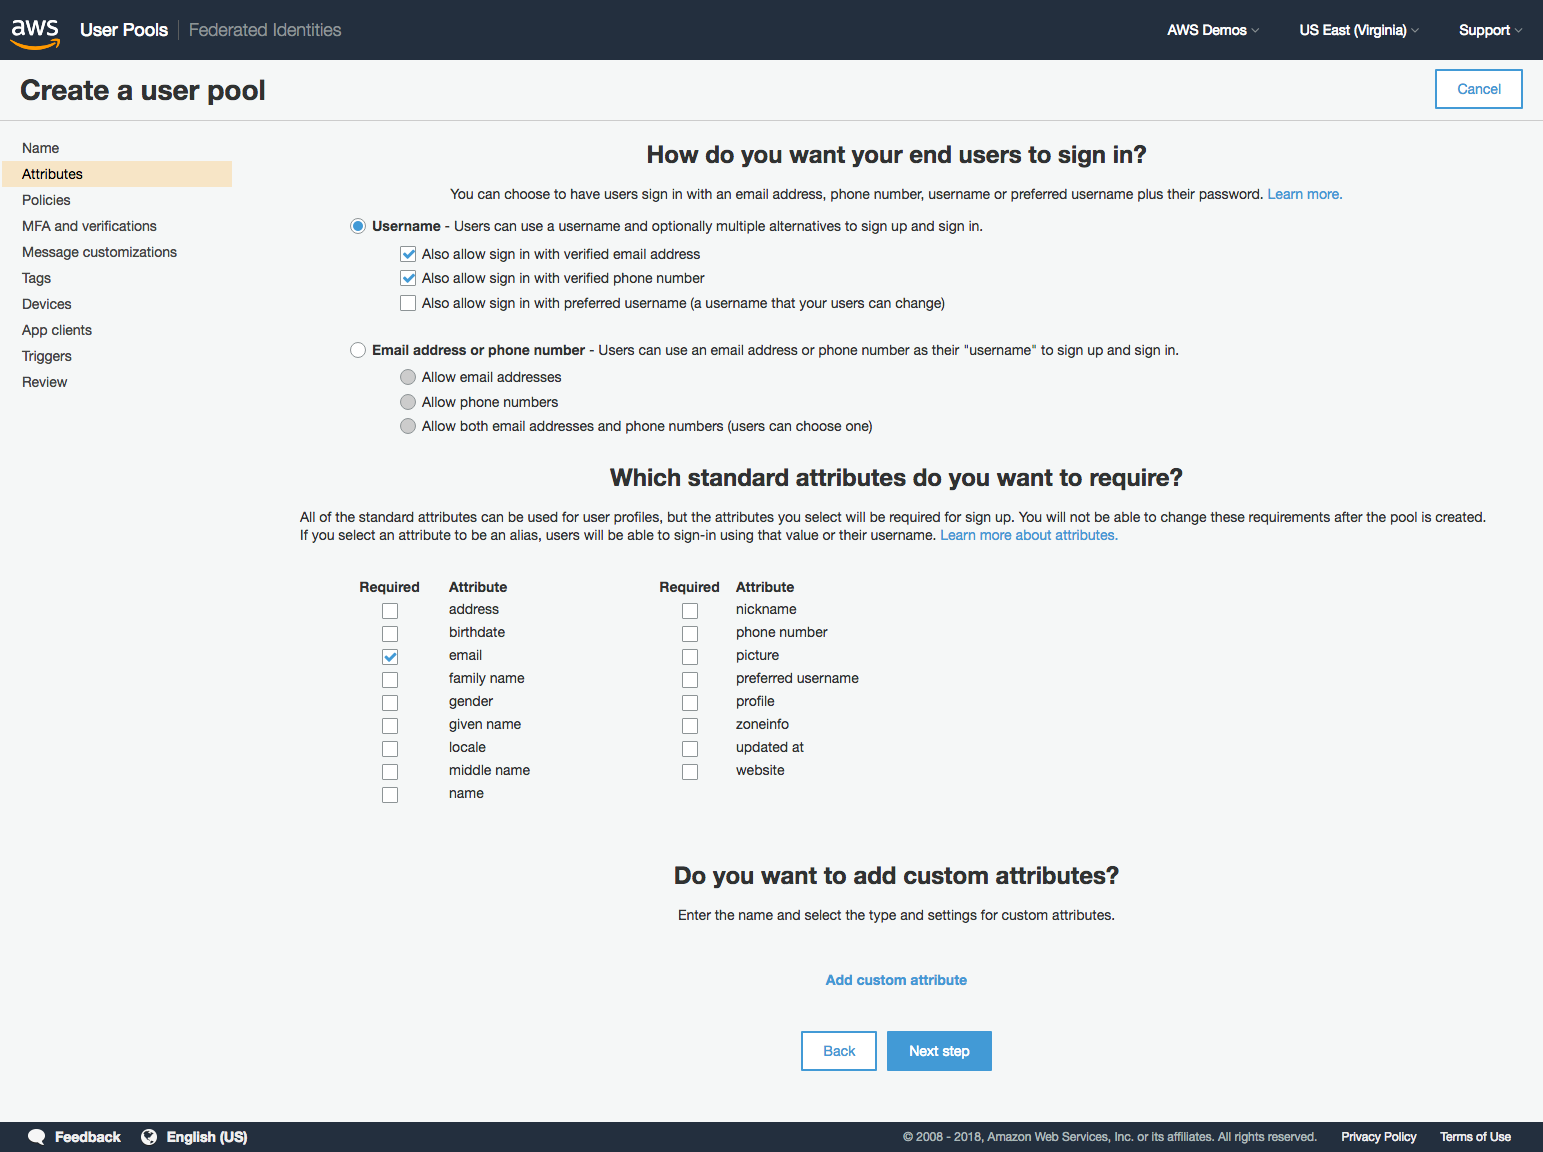
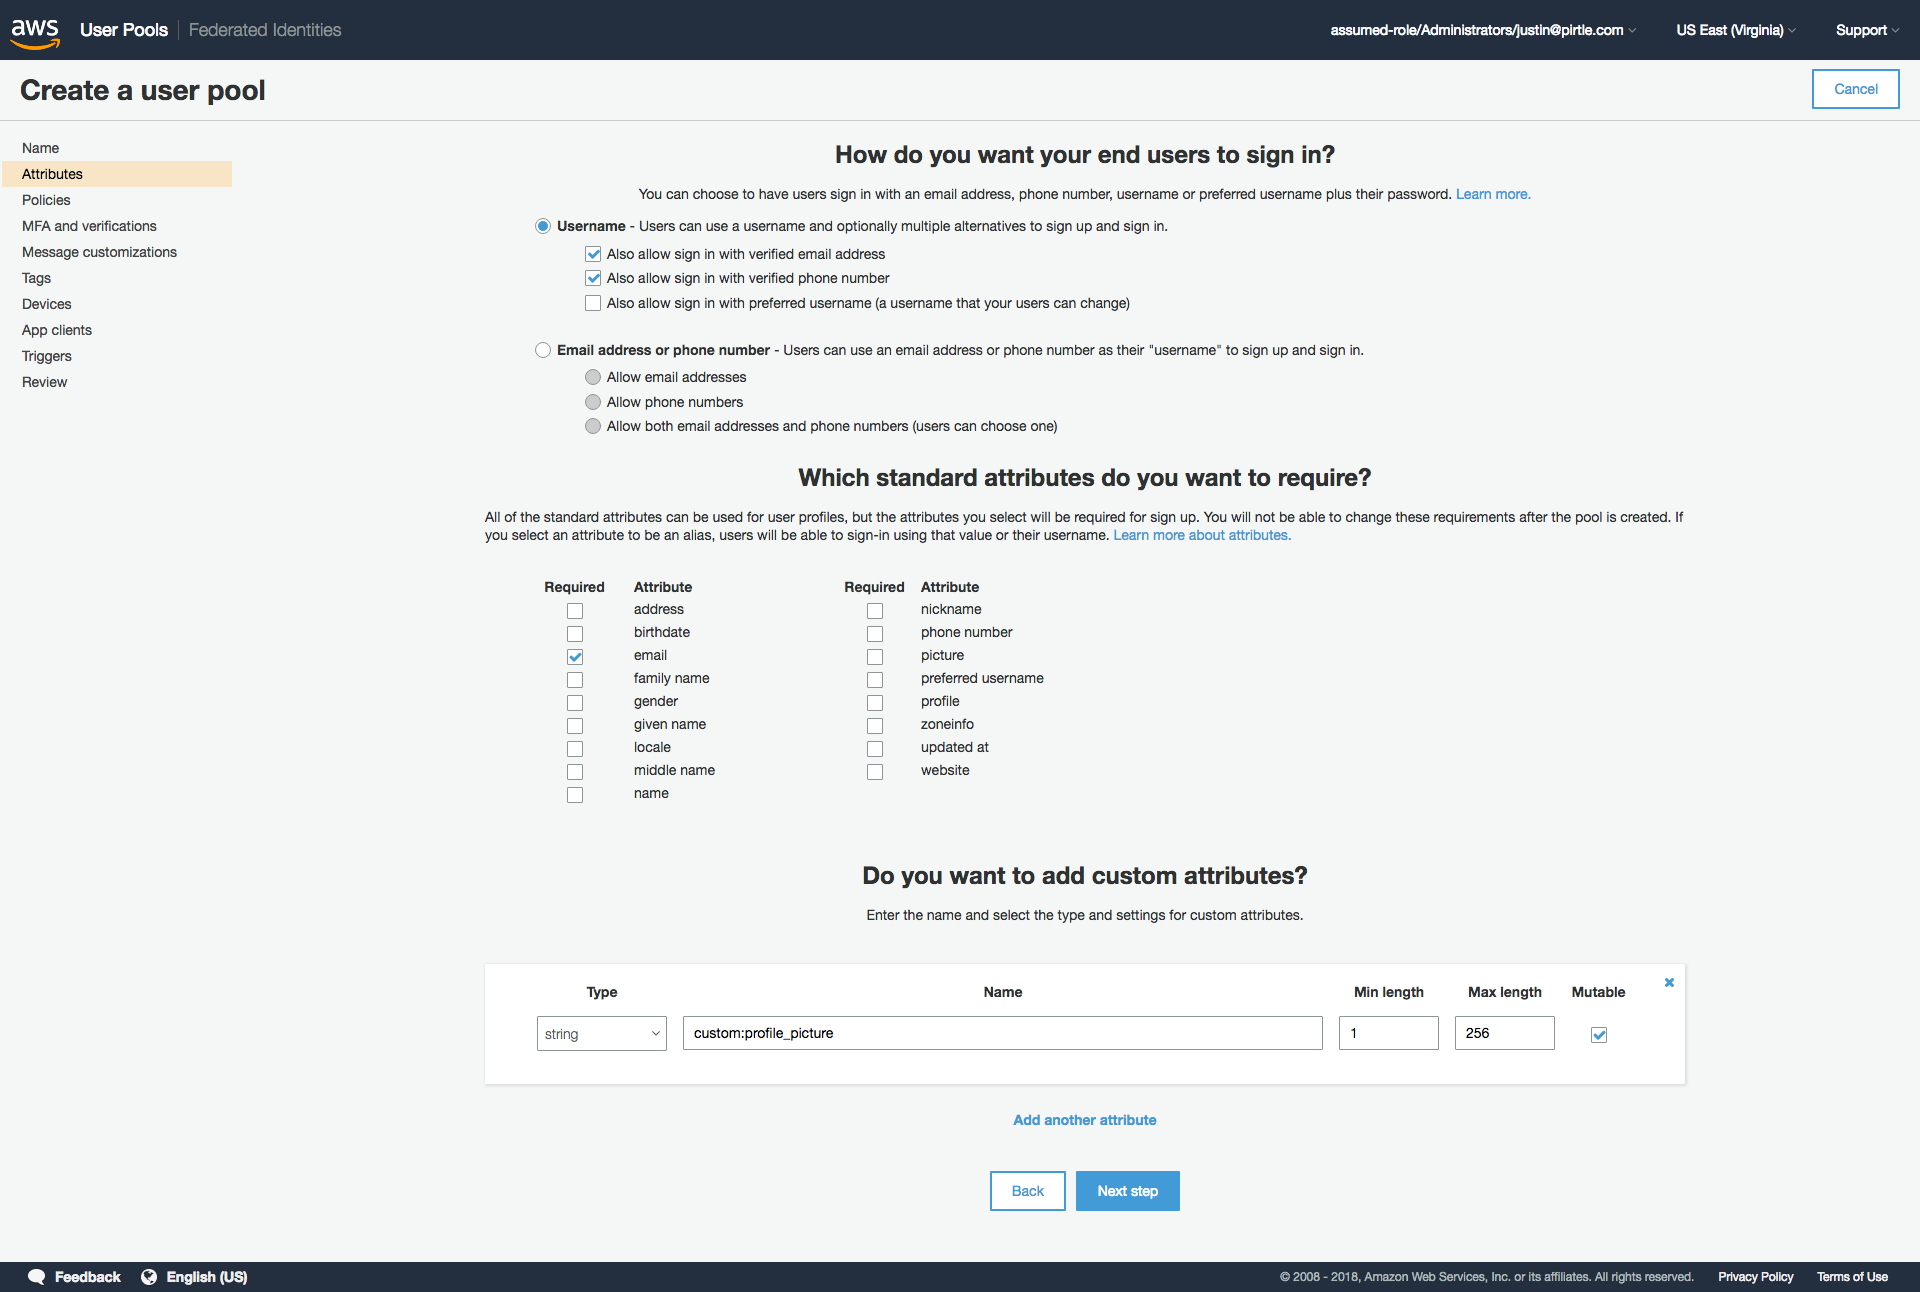
Added Cognito User Pool setup to Auth Module 1

diff --git a/Auth/1_UserAuthentication/README.md b/Auth/1_UserAuthentication/README.md
@@ -1,59 +1,114 @@
-# Module 1: The first example module
+# Module 1: User Authentication
 
-This is an example module. The page title should include the module number and a short but descriptive title.
+In this module, you will create an Amazon Cognito User Pool and Identity Pool for the wild rydes application.
+The Cognito User Pool will store user profile information and provide sign-up and sign-in capabilities, with the Cognito Identity Pool providing the ability to assume an Identity and Access Management (IAM) role from within the application.
 
-You should provide an introductory paragraph that sets some context for the use case to be covered. If possible this should tie into the Wild Rydes theme/company story.
-
-You should also provide instructions here for launching a CloudFormation template that allows students to skip ahead to the next module. You should host your templates in local S3 buckets in each supported region and provide a table with links for launching the templates in each region:
-
-
-Region| Launch
-------|-----
-US East (N. Virginia) | [![Launch Module 1 in us-east-1](http://docs.aws.amazon.com/AWSCloudFormation/latest/UserGuide/images/cloudformation-launch-stack-button.png)](https://console.aws.amazon.com/cloudformation/home?region=us-east-1#/stacks/new?stackName=your-stack-name&templateURL=https://s3.amazonaws.com/wildrydes-us-east-1/WorkshopTemplate/1_ExampleTemplate/example.yaml)
-US West (Oregon) | [![Launch Module 1 in us-west-2](http://docs.aws.amazon.com/AWSCloudFormation/latest/UserGuide/images/cloudformation-launch-stack-button.png)](https://console.aws.amazon.com/cloudformation/home?region=us-west-2#/stacks/new?stackName=your-stack-name&templateURL=https://s3.amazonaws.com/wildrydes-us-west-2/WorkshopTemplate/1_ExampleTemplate/example.yaml)
-
-<details>
-<summary><strong>CloudFormation Launch Instructions (expand for details)</strong></summary><p>
-
-1. Click the **Launch Stack** link above for the region of your choice.
-
-1. Click **Next** on the Select Template page.
-
-1. Provide a globally unique name for the **Website Bucket Name** such as `wildrydes-yourname` and click **Next**.
-    ![Speficy Details Screenshot](../images/module1-cfn-specify-details.png)
-
-1. On the Options page, leave all the defaults and click **Next**.
-
-1. On the Review page, check the box to acknowledge that CloudFormation will create IAM resources and click **Create**.
-    ![Acknowledge IAM Screenshot](../images/cfn-ack-iam.png)
-
-    This template uses a custom resource to copy the static website assets from a central S3 bucket into your own dedicated bucket. In order for the custom resource to write to the new bucket in your account, it must create an IAM role it can assume with those permissions.
-
-1. Wait for the `wildrydes-webapp-1` stack to reach a status of `CREATE_COMPLETE`.
-
-1. With the `wildrydes-webapp-1` stack selected, click on the **Outputs** tab and click on the WebsiteURL link.
-
-1. Verify the Wild Rydes home page is loading properly and move on to the next module, [User Management](../2_UserManagement).
-
-</p></details>
-
+Since Wild Rydes is a ride sharing application, a key requirement is that all users must sign-up and sign-in before they're allowed to request a ride. You will configure the application to integrate with [Amazon Cognito](https://aws.amazon.com/cognito/) for these purposes via the [AWS Amplify JavaScript library](https://aws-amplify.github.io/).
 
 ## Solution Architecture
 
-Provide a description and architecture diagram for the solution that the students will build. Consider including a diagram and short description of the components that are created by the baseline CloudFormation template in addition to the final architecture so that students are clear on which components they will be responsible for building.
+The architecture for this module is very straightforward. All of your static web content including HTML, CSS, JavaScript, images and other files will be served locally from your Cloud9 workspace. As you made changes to the website application code, all changes will be automatically updated and shown in your browser via live reload capabilities.
+
+For this module, we will be configuring our application to use the AWS Amplify library to easily integrate Amazon Cognito into our application.
+
+![Website architecture](../images/wildrydes-module1-architecture.png)
 
 ## Implementation Overview
 
-This section should provide students with the high level steps required to complete the solution. It should enumerate all the components and major configuration tasks required, but should not get to the detail of providing step-by-step instructions for which console buttons to click, etc.
+### Running the website locally
 
-Sample:
+1. From your Cloud9 workspace, select the terminal window and when you are within your website directory, run the following command to start the local web server 
 
-The following provides an overview of the steps needed to complete this module. This section is intended to provide enough details to complete the module for students who are already familiar with the AWS console and CLI. If you'd like detailed, step-by-step instructions, please use the heading links to jump to the appropriate section.
+    ```console
+    yarn start
+    ```
 
-*Create an S3 Bucket* - Use the console or CLI to create an S3 bucket. If you'd like to use a custom domain to host the site make sure you name your bucket using the full domain name (e.g. wildrydesdemo.example.com). Read more about custom domain names for S3 buckets here.
+    Wait for the development server to start. You can ignore any message saying *Compiled with warnings* as we will resolve these warnings as we add our functionality to the application.
 
-*Upload content* - Copy the content from the example bucket, xyz. There is also a zip archive available at xyz that you can download locally and extract in order to upload the content via the console.
 
-*Add a bucket policy to allow public reads* - Bucket policies can be updated via the console or CLI. You can use the provided policy document or build your own. See the documentation for more information.
+2. Now that the development server has started, click **Preview** in the top of the screen next to the Run button.
 
-*Enable public web hosting*
+    ![Cloud9 Preview](../images/cloud9-local-preview.png)  
+
+3. The web application will load in a small window next to the terminal at the bottom of the Cloud9 IDE. Click the **re-size button** next to the word **Browser** to open this window in a new tab.
+
+    ![Cloud9 Preview Re-size](../images/cloud9-resize-live-preview.png)   
+
+   As you make changes to the web application, this tab will automatically refresh to reflect your changes. Leave this tab open and return to the Cloud9 IDE tab to continue the workshop.
+
+   Though the Wild Rydes website may look function, there is currently no integration for sign-up or sign-in requests to go anywhere.
+
+### Creating a Cognito User Pool
+
+Amazon Cognito lets you add user sign-up, sign-in, and access control to your web and mobile apps quickly and easily. In this step, we'll create a Cognito user pool for use with our Wild Rydes app.
+
+#### High-Level Instructions
+
+Use the AWS console to create an Amazon Cognito User Pool adding a custom attribute named `profile_picture` and requiring multi-factor authentication via SMS message.
+
+<details>
+<summary><strong>Step-by-step instructions (expand for details)</strong></summary><p>
+
+1. In the AWS Management Console choose **Services** then select **Cognito** under Security, Identity, and Compliance.
+
+1. Choose your desired **Region** in top-right of the console if not already chosen.
+
+1. Choose **Manage User Pools**.
+
+1. Choose **Create a User Pool** in the top right of the console.
+
+1. Provide a name for your user pool such as `wild-rydes`.
+
+1. Choose **Step through settings** to configure our user pool options.
+
+![User Pool Setup Step 1](../images/cognito-userpool-setup-step1.png)
+
+1. Leave **Username** checked, but additionally select *Also allow sign in with verified email address* and *Also allow sign in with verified phone number*.
+
+1. At the bottom of the screen, choose **Add custom attribute** and add a string attribute named `profile_picture`. Leave the attribute set as mutable with a max length of 256 characters.
+
+![User Pool Setup Step 2](../images/cognito-userpool-setup-step2.png)
+
+1. Choose **Next**.
+
+1. Leave password policies and user sign up settings set to default settings and choose **Next**.
+
+![User Pool Setup Step 3](../images/cognito-userpool-setup-step3.png)
+
+1. Choose to set MFA as **Required** as we want to enforce additional security in our application.
+
+1. Choose to enable SMS text message as the second factor authentication option.
+
+1. Choose to require validation of email and phone numbers both.
+
+![User Pool Setup Step 4](../images/cognito-userpool-setup-step4.png)
+
+1. Choose **Create role** to create an IAM role with the default name to allow Cognito to send SMS messages on your behalf.
+
+1. Choose **Next step**.
+
+1. Leave all message defaults as-is and choose **Next step**.
+
+1. Skip adding any tags and click **Next step**.
+
+1. Choose **No** to not remember your user's devices then click **Next step**.
+
+![User Pool Setup Step 5](../images/cognito-userpool-setup-step5.png)
+
+1. Choose **Add an app client**
+
+1. Input `wild-rydes-web-app` as the app client name
+
+1. Uncheck **Generate client secret**. Client secrets are used for server-side applications authentication and are not needed for JavaScript applications.
+
+![User Pool Setup Step 6](../images/cognito-userpool-setup-step6.png)
+
+1. Choose **Next step**.
+
+1. Leavea all Lambda trigger settings set to **none**. These trigger settings allow you to extend the out-of-the-box sign-up and sign-in flows with your own custom logic, but we will not be using this feature in this workshop.
+
+1. Choose **Next step**.
+
+1. Review summary of all provided settings for accuracy then choose **Create pool**.
+
+</p></details>
